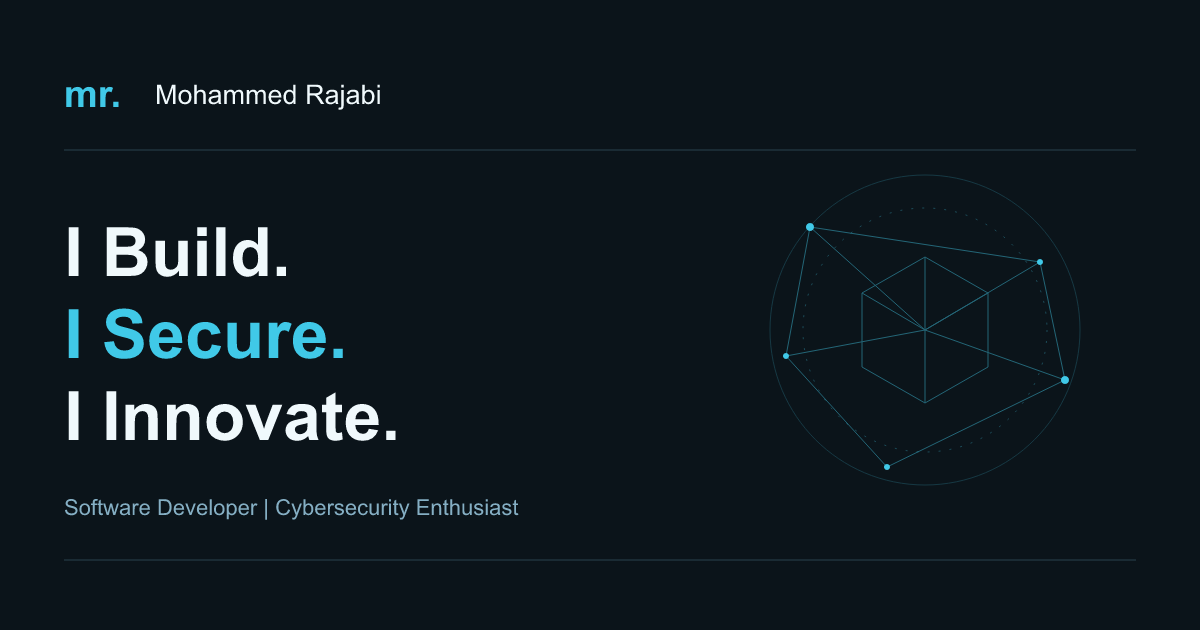
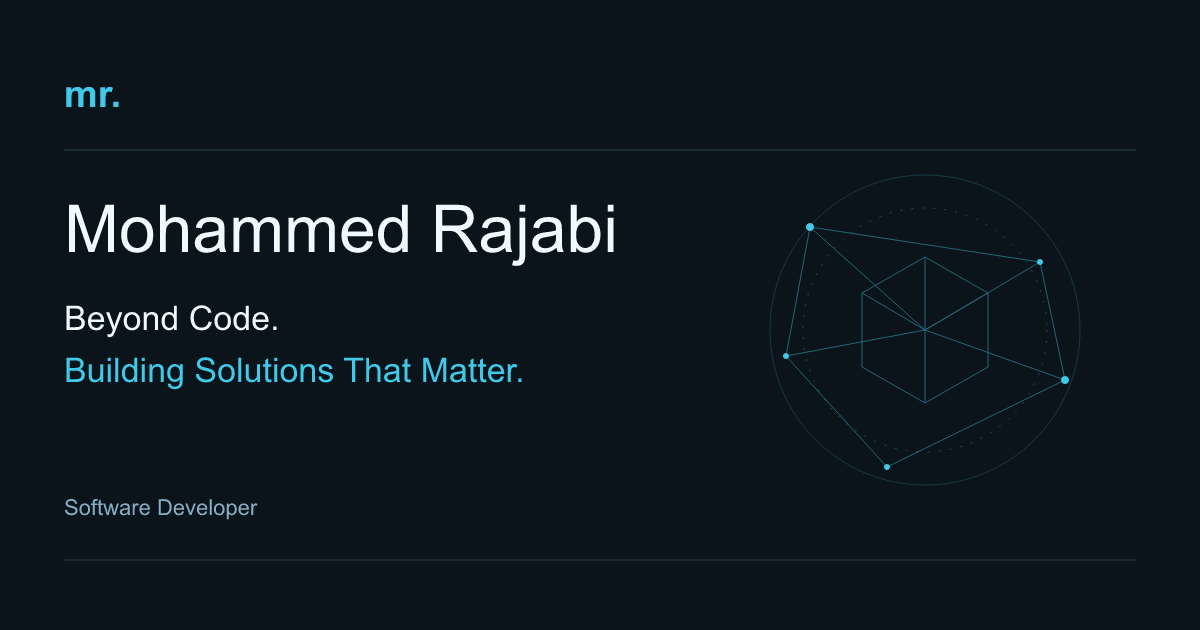
content change

diff --git a/mohammed-rajabi-portfolio/src/content/seo.ts b/mohammed-rajabi-portfolio/src/content/seo.ts
@@ -6,7 +6,7 @@ import { projectPath } from '../utils/projects';
 export const siteUrl = __SITE_URL__;
 export const homepageSeo = {
   title: 'Mohammed Rajabi | Software Developer & Cybersecurity Enthusiast',
-  description: 'Explore the portfolio of Mohammed Rajabi, a software developer and cybersecurity enthusiast building creative, practical, and secure digital experiences.',
+  description: profile.introduction,
 };
 export function getPageMetadata(pathname: string, origin: string | null = siteUrl, items = projects) {
   const project = items.find(item => projectPath(item.slug) === pathname);
@@ -29,7 +29,8 @@ export function getPageMetadata(pathname: string, origin: string | null = siteUr
 // No completed degrees, employment, awards, or fabricated project results.
 export const personSchema = {
   '@context': 'https://schema.org', '@type': 'Person', name: profile.name,
-  description: profile.title,
+  // Preserve the confirmed structured profile independently of the shorter hero title.
+  description: 'Software Developer | Cybersecurity Enthusiast',
   email: contacts.find(contact => contact.kind === 'email')?.value,
   sameAs: contacts.filter(contact => contact.kind !== 'email').map(contact => contact.href),
 };

diff --git a/mohammed-rajabi-portfolio/src/styles/global.css b/mohammed-rajabi-portfolio/src/styles/global.css
@@ -271,17 +271,20 @@
   min-width: 0;
 }
 .hero-name {
-  font-size: clamp(1rem, 2vw, 1.15rem);
+  font-size: clamp(2.75rem, 5.2vw, 4.7rem);
   color: var(--ink);
-  margin-top: 18px;
-  font-weight: 500;
-}
-.hero-copy h1 {
-  font-size: clamp(3rem, 7.2vw, 5.35rem);
-  font-weight: 650;
+  margin: 22px 0 24px;
+  font-weight: 750;
   line-height: 1.08;
-  letter-spacing: -0.065em;
-  margin: 25px 0 26px;
+  letter-spacing: -0.055em;
+}
+.hero-headline {
+  font-size: clamp(1.35rem, 2.5vw, 1.85rem);
+  font-weight: 550;
+  line-height: 1.4;
+  letter-spacing: -0.03em;
+  margin-bottom: 24px;
+  max-width: 560px;
 }
 .headline-line {
   display: block;
@@ -506,9 +509,6 @@
     grid-template-columns: 1.1fr 1fr;
     gap: 18px;
   }
-  .hero-copy h1 {
-    font-size: clamp(3rem, 6.2vw, 5.35rem);
-  }
   .about-section {
     grid-template-columns: 1.25fr 1fr;
     align-items: center;
@@ -544,9 +544,6 @@
   .header-inner {
     gap: 12px;
     min-height: 76px;
-  }
-  .hero-copy h1 {
-    font-size: clamp(2.65rem, 12vw, 3rem);
   }
 }
 @media (hover: hover) and (pointer: fine) {

diff --git a/mohammed-rajabi-portfolio/src/content/profile.ts b/mohammed-rajabi-portfolio/src/content/profile.ts
@@ -2,10 +2,10 @@ import type { Profile } from "../types/content";
 import { resume } from "./resume";
 export const profile: Profile = {
   name: "Mohammed Rajabi",
-  headline: "I Build. I Secure. I Innovate.",
-  title: "Software Developer | Cybersecurity Enthusiast",
+  headline: "Beyond Code. Building Solutions That Matter.",
+  title: "Software Developer",
   introduction:
-    "Driven by curiosity. Inspired by possibility. I explore ideas, solve problems, and build with a security-minded perspective.",
+    "I build modern, production-ready web applications with practical features that solve real business problems and deliver great user experiences.",
   about:
     "I don't just write code. I explore ideas, break down problems, and build solutions. I'm Mohammed Rajabi, a developer driven by curiosity, creativity, and a passion for cybersecurity. Every project is an opportunity to build something better.",
   resume,

diff --git a/mohammed-rajabi-portfolio/src/sections/HeroSection.tsx b/mohammed-rajabi-portfolio/src/sections/HeroSection.tsx
@@ -25,14 +25,14 @@ export function HeroSection() {
           <span />
           {homeContent.greeting}
         </p>
-        <p className="hero-name">{profile.name}</p>
-        <h1 id="hero-heading" aria-label={profile.headline}>
+        <h1 id="hero-heading" className="hero-name">{profile.name}</h1>
+        <p className="hero-headline">
           {profile.headline.match(/[^.]+\./g)?.map((line, index) => (
             <span key={line} className={`headline-line headline-${index}`}>
               {line.trim()}{" "}
             </span>
           ))}
-        </h1>
+        </p>
         <p className="hero-title">{profile.title}</p>
         <p className="hero-introduction">{profile.introduction}</p>
         <div className="hero-actions">

diff --git a/mohammed-rajabi-portfolio/index.html b/mohammed-rajabi-portfolio/index.html
@@ -7,7 +7,7 @@
 <meta name="theme-color" content="#0B141A" />
 <!--seo-->
 <title>Mohammed Rajabi | Software Developer &amp; Cybersecurity Enthusiast</title>
-<meta name="description" content="Explore the portfolio of Mohammed Rajabi, a software developer and cybersecurity enthusiast building creative, practical, and secure digital experiences." />
+<meta name="description" content="I build modern, production-ready web applications with practical features that solve real business problems and deliver great user experiences." />
 <meta name="robots" content="index, follow" />
 <!--/seo-->
 <script src="/theme-init.js"></script>

diff --git a/mohammed-rajabi-portfolio/src/components/hero/TechnologyVisual.tsx b/mohammed-rajabi-portfolio/src/components/hero/TechnologyVisual.tsx
@@ -105,7 +105,7 @@ export function TechnologyVisual() {
         </g>
       </svg>
       <div className="visual-caption">
-        <span /> Software. Systems. Security.
+        <span /> Build. Solve. Deliver.
       </div>
     </div>
   );

diff --git a/mohammed-rajabi-portfolio/docs/SHOWROOM-REDESIGN-PROPOSAL.md b/mohammed-rajabi-portfolio/docs/SHOWROOM-REDESIGN-PROPOSAL.md
@@ -1,0 +1,171 @@
+# Signal & Structure — redesign proposal for approval
+
+Status: research and planning only. No implementation code, dependencies, content collections, or hosting configuration changed for this task. Existing uncommitted hero changes are retained. This proposal follows the brief's instruction to obtain approval before implementation.
+
+## 1. Reference inspection: what was actually observed
+
+Reference: [Reboot01 Showroom](https://showroom.reboot01.com/). Inspected in a real Chromium browser on 2 November 2026, including desktop at 1280px and mobile at 390px. This describes the live version available during inspection, not a reconstruction of an earlier version.
+
+Coverage: the whole public homepage, its process cards, interactive walkthrough, feature collage, people accordion and footer; the Projects page and Grid/Focus/Rows/Explore controls; Spotlight; the Contact page; the submission sign-in gate; theme switching; desktop navigation; mobile menu; keyboard focus and sample interactions. No authentication or real form submission was performed.
+
+| Observation | What gives it coherence | Adaptation for this portfolio |
+| --- | --- | --- |
+| Dark violet canvas, teal accent, dotted texture, white text, recurring code-shaped graphics | The same palette and graphic vocabulary connect otherwise different layouts | Keep Mohammed's graphite/cyan identity; develop an original signal-and-node motif instead of using Reboot's brackets or assets |
+| Large Poppins typography; approximately 72px main heading and 64px secondary heading at the sampled desktop width | Typography establishes the visual scale and supplies much of the artwork | Retain Inter; enlarge the name and section typography while maintaining supporting text and readable line lengths |
+| A sticky opening canvas is progressively covered by the next section | Depth comes from relationships between sections, not a separate effect on every card | One controlled hero-to-biography overlap, with normal document scrolling and a simpler mobile treatment |
+| Individual character elements and visible intermediate reveal states in large headings | Text entrance, graphic entrance and section order feel related | A coordinated name/headline introduction and a few deliberately chosen line reveals, not letter animation on every paragraph |
+| Process cards have contrasting white, violet and teal treatments, corner cutouts and a shared progress rail | Different visual weights still follow one visual grammar | Vary composition and surface emphasis; use a shared margin signal rather than copy the three-card layout or cutouts |
+| The walkthrough follows a winding illuminated connector and alternates text with media | The line becomes a narrative device and directs attention between steps | A quieter signal that aligns with section markers, skills selection and the education timeline; no reproduction of the exact winding path |
+| Walkthrough buttons jump to their sections; the local rating example updates visibly when selected | Visitors can participate in the explanation instead of watching a passive animation | Keep real skills selection and contact feedback as the interactive story; do not add ratings or simulated project results |
+| A collage mixes unequal feature panels, outlined background type, a counter, code imagery and a graph | Changing scale breaks the repetition of an ordinary card grid | Use asymmetry in biography, skills and education; use only real portfolio facts and no achievement counters |
+| People panels expand when selected; moving keyboard focus also expanded a panel | Visual response has an accessible input alternative | Focus and touch selection receive the same preview treatment as pointer interaction |
+| The project-page opening uses layered screenshot artwork; its public gallery currently reports zero projects | An expressive introduction remains possible even without a populated gallery | Make the honest empty state designed and intentional without fake thumbnails or inactive project links |
+| Gallery modes open focused/dialog-style views; Track currently offers only the all-tracks empty state | Presentation can change while content and controls remain recognizable | Do not add gallery modes or filters to an empty personal portfolio; prioritize one excellent showcase when real entries exist |
+| Navigation uses a translucent pill, an active code-shaped treatment and a floating logo; several CSS transitions report 300ms and an ease-out curve | Small state changes repeat the main visual vocabulary | Retain a personal full-width navigation bar, add a quiet moving indicator and section numerals; do not copy the pill or logo |
+| Mobile puts the hero graphic above centered text, stacks process cards and turns the walkthrough into a numbered vertical story | Mobile changes the composition, not just the font size | A name-first mobile introduction, smaller secondary graphic, single-column narrative and no long pinned scenes |
+| Mobile menu is a bottom sheet over a dimmed/blurred page; Escape returned focus to the opener | Responsive navigation has its own intentional interaction design | A compact accessible sheet for existing anchors, retaining the current theme choices and keyboard behavior |
+| Light mode uses white with dark violet text while retaining teal and selected contrasting panels | Theme switching preserves the art direction | Keep the existing light/dark/system model and test contrast for both themes |
+
+### Inspection limits
+
+- The reference gallery and Spotlight archive were empty. Actual populated-card hover effects, live project-detail routes, filtering with results and shared project transitions could not be verified. The homepage's walkthrough recordings are recordings, not evidence of live detail-route behavior.
+- Submission content requires Gitea sign-in. Authenticated upload/dashboard behavior was not inspected. External institutional sites were outside the visual-reference scope.
+- CSS navigation timing was inspected, but exact JavaScript timeline durations, easing curves, animation library, pointer-following behavior, magnetic effects and every hover state are unverified. Small decorative glyphs were visible; that alone does not establish how they track input.
+- Reduced-motion preference emulation was not available in the connected browser. Reference reduced-motion behavior and real touch-device performance are unverified.
+- Some screenshots caught intermediate, temporarily sparse reveal states. The proposal deliberately avoids long blank gaps or delaying access to text while an animation finishes.
+
+## 2. Existing portfolio audit
+
+The existing application is a sound foundation. React 19, TypeScript 6, Vite 8, Tailwind 4, React Router 8, Motion 14, Lucide and locally served Inter are already configured. Shared routes are used for client rendering and build-time prerendering. The current presentation is consistent and readable, but sections mostly share the same container/card rhythm and their motion is largely independent.
+
+Current structure:
+
+- `src/content/`: typed profile, skills, education, contact, project and section data. Keep these as the source of truth.
+- `src/routes.tsx`, `src/App.tsx`, `src/entry-server.tsx`: homepage, `/projects/:slug`, not-found handling, lazy routes and server rendering.
+- `src/layouts/RootLayout.tsx`: skip link, navigation, main landmark, footer and Back to Top.
+- `src/components/navigation/`: active-section detection, hash navigation, focus/offset handling, responsive menu and scroll control.
+- `src/components/theme/`: persisted light/dark/system preferences, live system subscriptions and deterministic server snapshots. `public/theme-init.js` applies the initial theme early.
+- `src/components/skills/SkillsTabs.tsx`: functioning keyboard tabs, five categories, all 21 skills; this behavior should survive a visual replacement.
+- `src/components/projects/`: real-content templates, safe optional links, image failure states, detail pages and technology tags.
+- `src/components/contact/`: correct contact destinations and pending/success/error/manual-copy feedback.
+- `src/styles/`: semantic theme tokens, layout layers, micro-interactions, simple scroll-driven CSS reveals and reduced-motion fallbacks.
+- `scripts/prerender.mjs`, `src/content/seo.ts`, `usePageMetadata.ts`, `vercel.json`: crawlable static output, page metadata, confirmed Person schema, origin-gated sitemap/canonical output, CSP and static 404 configuration.
+
+A local production preview was visually inspected on desktop and mobile. No new code validation or Lighthouse benchmark is claimed in this planning task. Existing reports are historical; a fresh baseline is part of implementation.
+
+### Non-negotiable content constraints
+
+The latest hero stays: the greeting, **Mohammed Rajabi** as the dominant name, **Beyond Code. Building Solutions That Matter.**, **Software Developer**, and the current supplied description. Do not restore the old hero wording.
+
+Keep the exact biography, all 21 skills and their five categories, both expected education records, GPA 3.7 only for Bahrain Polytechnic, and all confirmed contact destinations. Developer/cybersecurity positioning continues through the biography, capabilities and education; it does not require inventing a cybersecurity job title or credential.
+
+Projects, experience and certifications currently have empty collections. Projects remain an honest visible empty state; experience and certifications remain hidden. The genuine resume is absent, so its download stays hidden. Do not add fake work, client logos, testimonials, employment, credentials, completion claims or performance statistics.
+
+## 3. Recommended creative direction: Signal & Structure
+
+The portfolio should feel like a personal interactive editorial: Mohammed introduces himself, reveals how he thinks, shows his capabilities, presents real work when available, and invites a conversation.
+
+A thin cyan signal moves through an original geometric field, becomes a margin marker, connects the skills index, aligns with the education timeline, and resolves into the contact underline. It is one visual thread with several purposeful states, not a full-page animated background.
+
+Keep the exact existing dark palette: background `#0B141A`, surfaces `#152630`, accent `#40C9E8`, secondary `#85AFC4`, text `#F0F9FC`. Retain the existing accessible light palette. Add sparse static dot/line texture and a few large outline words only where they help composition. Do not introduce Reboot's purple brand, brackets, portraits, screenshots or logos.
+
+Use Inter throughout. Proposed desktop scale: name roughly 96–128px on wide screens, section display headings 64–88px, secondary hero line 32–48px, body 16–18px. These are responsive ranges, not fixed sizes. Mobile name roughly 48–64px with natural wrapping, section headings 36–44px and body at least 16px for primary prose. Supporting content remains around a 1200px maximum width; decorative framing can extend beyond it without horizontal overflow.
+
+## 4. Section-by-section experience
+
+| Section | Proposed composition and behavior | Mobile / reduced-motion treatment |
+| --- | --- | --- |
+| Header and navigation | Personal name/monogram left, numbered section links right, a slim active marker. The header becomes visually quieter while scrolling. Keep all current anchors and theme choices. Mobile menu uses a bottom sheet with correct dialog semantics, focus containment, Escape/outside close and focus restoration. | Large touch targets, a scrollable sheet if text is enlarged, no hover dependency. Reduced motion uses immediate state changes. |
+| Hero | Name-led editorial opening spanning the composition, with the existing headline and introduction below. Replace the continuously orbiting cube with an original geometric field related to the initials MR. A coordinated short entrance settles type, then lines and nodes, then CTA accents. On desktop, the graphic shifts slightly as the next section approaches. | Content comes first, graphic follows at a smaller scale. No pinned mobile hero, cursor requirement, endless spinning or blocking loader. All text remains visible without JavaScript. |
+| About | Preserve the complete biography as readable prose. Replace three equal quick-fact cards with an asymmetric composition: a large heading, biography and three existing interest labels aligned to the shared signal. A short desktop sticky graphic changes emphasis as development, cybersecurity and learning enter view. | Normal stacked reading order. All biography sentences remain readable; emphasis changes must not dim body text below contrast requirements. Sticky behavior is removed for narrow or short viewports. |
+| Skills | A capability index rather than a card grid: five substantial category selectors on one side and a shared skills stage on the other. Selection reveals the real badges and adjusts the signal geometry. Honest skill counts may be derived from existing data; no ratings or proficiency levels. Retain tab roles, keyboard wrapping, Home/End, focus and panel relationships. | Controls wrap or stack and remain labelled. No drag gesture is required. Panel changes become immediate with reduced motion. |
+| Featured projects | A large editorial section title and spacious preview-led entries, one strong project composition at a time rather than repeated small tiles. Each genuine entry supports a real screenshot, summary, tags and existing links. Preview crop changes, a restrained image scale and an animated details underline respond equally to hover/focus. | Screenshot and all actions remain visible without hover. Items become normal single-column entries; no forced horizontal scroll or gallery mode switcher. |
+| Current project empty state | An intentional open frame and oversized section number, with the existing truthful empty-state wording. The frame joins the shared signal as it enters. No fake thumbnails, loading skeletons, disabled sample links or fabricated project statistics. | Compact static frame with readable copy. The design is considered complete even while the collection is empty. |
+| Project details | Keep `/projects/:slug`, direct refresh behavior and all conditional fields. Use an oversized title, generous overview, large real media and a clear return link. Preserve context through color, project numbering and a brief header entrance. Do not make navigation wait for a cinematic exit. | Predictable document flow, useful image dimensions/alt text, safe optional links and the existing failed-image fallback. |
+| Education | Turn the existing timeline into a quieter editorial chapter: large dates in one column and institution/qualification/status in another. The shared signal draws along the timeline as each record reaches view. Both programs remain explicitly expected/in progress. | One-column timeline, no pinning or draggable interaction. Static line for reduced motion. |
+| Contact and footer | A full-width closing composition with the existing contact heading and a large personal email action. The signal ends as an underline/endpoint beside the email. Keep Copy email, success/failure/manual selection, GitHub, LinkedIn and Back to Top. Footer uses the name/monogram, not a fictional agency sign-off. | Stable targets, readable email wrapping and no new form/backend. Focus stays where it belongs during clipboard feedback. |
+
+The headline and semantic order remain personal and recruiter-friendly. The visual story supports the content; it does not present an invented agency process or imply completed client work.
+
+## 5. Motion priorities and proposed timing
+
+These are proposed specifications, not claimed measurements of the reference.
+
+| Priority | Interaction | Proposed limits |
+| --- | --- | --- |
+| 1 | Coordinated hero entrance | Approximately 600–900ms total; name first, headline/graphic following; 35–55ms text-group staggering where useful. Never block CTA access. |
+| 1 | Hero-to-About continuity | A short desktop overlap and graphic transform linked to natural scrolling. Decorative translation capped around 24–40px. Avoid a long artificial scroll runway. |
+| 1 | Skills-stage selection | Approximately 220–320ms; deliberate geometry and badge transition. No automatic category cycling. |
+| 1 | Project preview response | Approximately 250–400ms, image scale no more than about 1.03, small framing/underline changes. Equivalent keyboard feedback and full touch access. |
+| 2 | About chapter emphasis / education line | A bounded scroll-linked scene with normal reading order. At most one short desktop storytelling scene; disable pinning on mobile, short screens and reduced motion. |
+| 2 | Menu and theme feedback | Approximately 180–300ms. Animate local surfaces/indicators without a whole-screen flashing theme wipe. |
+| 2 | Contact action | Icon/underline movement of approximately 4–6px; keep the clickable target and focus ring stationary. This supplies magnetic-like feedback without a moving target. |
+
+Favor smooth ease-out transitions, not strong elastic/bounce effects. Avoid simultaneous competing entrance, hover and scroll animations on the same property. No custom cursor, looping marquee, autoplay background video or decorative number counters are required.
+
+## 6. Recommended technology and lifecycle strategy
+
+Retain React, TypeScript, Vite, Tailwind, React Router, Lucide, Inter and the existing static rendering pipeline.
+
+Recommend **GSAP + ScrollTrigger as the single JavaScript choreography engine**, with CSS for ordinary hover/focus/theme states. The coordinated timelines and bounded scroll scenes justify it. ScrollTrigger supports scroll-linked animation and pinning; [official documentation](https://gsap.com/docs/v3/Plugins/ScrollTrigger/) covers these mechanisms.
+
+Do not add Lenis or ScrollSmoother: native scrolling already works with section anchors, keyboard input, focus and Back to Top. Do not add Three.js, a second smooth-scroll engine or a new UI framework.
+
+As the new scenes replace existing Motion wrappers, move small UI transitions to CSS and remove Motion only once its remaining imports are gone and behavior is verified. The finished design should not ship GSAP and Motion merely to animate the same UI. This is a targeted animation migration, not a routing or application-framework rewrite.
+
+Use a small scoped scene hook, not a large animation framework. [GSAP context](https://gsap.com/docs/v3/GSAP/gsap.context()/) provides scoped animation collection/reversion, and [matchMedia](https://gsap.com/docs/v3/GSAP/gsap.matchMedia()/) supports responsive conditions and cleanup. Scene initialization must be client-only and safe under React StrictMode, SSR, route changes and resize.
+
+Specific safeguards:
+
+- Render real text and content first. Dynamic animation loading or failure must never leave a blank hero or hidden biography.
+- Keep decorative graphics hidden from assistive technology. Split visual text must retain one coherent accessible name and sensible heading structure.
+- Use scoped cleanup; do not globally kill unrelated scroll triggers. Disconnect observers/listeners and cancel pointer frames on unmount.
+- Use DOM transforms directly for frame-by-frame motion, not React state updates on every scroll tick.
+- Refresh measured scenes when fonts/media dimensions actually settle. Reserve media space and avoid repeated layout measurements in scroll callbacks.
+- Build separate desktop/mobile conditions and respond to reduced-motion changes. Disable parallax, pinning, tilt and text choreography when reduced motion is requested; every section stays present and usable.
+- Animate only an original small SVG field and bounded paths. Use static texture; avoid a full-window canvas particle system unless a later measured need justifies it.
+- Keep the early theme script and CSP intact. No third-party scripts, asset origins or header relaxation are needed for this design.
+
+## 7. What is preserved, replaced or restructured
+
+| Preserve | Replace / restructure |
+| --- | --- |
+| Latest name-first hero wording and exact biography | Hero composition and decorative SVG geometry |
+| All original typed collections and content contracts | Repetitive section/card rhythm and generic wrappers where no longer useful |
+| Existing routes, native links, project URLs and static 404s | Homepage project grid presentation, without changing the project model |
+| Skill category data and keyboard/ARIA behavior | Skills visual arrangement and transitions |
+| Theme preference/system subscriptions and early initialization | Theme-control styling and local state feedback |
+| Clipboard utility, feedback semantics, selection fallback and contact destinations | Contact layout and visual action treatment |
+| Resume gate and hidden empty sections | No new experience/certification/achievement sections |
+| Prerendering, metadata/schema, robots/sitemap gating and security headers | Social artwork may be refreshed to the approved identity; no unrelated metadata/content rewrite |
+| Existing tests and meaningful behavioral coverage | Tests tied to obsolete layout class names can be updated while keeping their original behavioral assertions |
+
+## 8. Implementation phases after approval
+
+| Phase | Specific files / proposed additions | Verification gate |
+| --- | --- | --- |
+| A. Baseline and boundaries | Audit the existing diff without resetting it; `docs/`, `tests/`, package scripts; capture current routes/content/theme states and baseline measurements | Existing typecheck/lint/content/interaction/build/production checks pass or pre-existing failures are recorded; genuine content and hidden gates are locked down |
+| B. Visual and motion foundation | `styles/tokens.css`, `global.css`; evolve `components/AnimationProvider.tsx` and add a scoped `hooks/useSceneTimeline.ts` / reduced-motion helper as needed; package manifests for GSAP | No SSR/window errors, no empty no-JS content, cleanup passes repeated mounting/navigation, reduced-motion conditions work |
+| C. Hero and navigation | `HeroSection.tsx`, `TechnologyVisual.tsx`, `SiteHeader.tsx`, theme-control styling; a small mobile sheet component only if it simplifies ownership | Name remains dominant; latest exact copy, CTA destinations and CV gate unchanged; desktop/mobile menu, Escape, Tab and focus restoration work |
+| D. Biography and capabilities | `AboutSection.tsx`, `QuickFacts.tsx`, `SkillsSection.tsx`, `SkillsTabs.tsx`, relevant shared styles | Exact biography and all 21 skills preserved; every category keyboard-accessible; sticky scene has a short-screen fallback; no opacity/contrast regression |
+| E. Work and detail pages | `ProjectsSection.tsx`, `ProjectShowcase.tsx`, `ProjectMedia.tsx`, `ProjectDetails.tsx`, `ProjectPage.tsx` | Honest empty production state; isolated real-shaped fixtures exercise one/multiple entries, optional URLs, missing/failed images and navigation; fixtures never ship |
+| F. Education and closing | `EducationSection.tsx`, `EducationCard.tsx`, `ContactSection.tsx`, `ContactCard.tsx`, `BackToTop.tsx`, `RootLayout.tsx` | Expected education/GPA unchanged; clipboard pending/success/error/manual focus preserved; external links safe; Back to Top works; new visuals complete the same signal motif |
+| G. Consolidation and visual QA | Remove obsolete animation imports/styles and Motion dependency only when unused; `tests/`, `scripts/`, README and QA documentation | Full checks, browser matrix, performance comparison and honest report of remaining limits; no push/deployment |
+
+No genuine-project data is required to implement and verify the template safely. A populated public project showcase remains gated on real supplied content. Approval of this plan authorizes these local implementation phases, not publication or invented content.
+
+## 9. Acceptance criteria and review matrix
+
+Run `npm run typecheck`, `npm run lint`, `npm run test:content`, `npm run test:interactions`, `npm run build`, and `npm run test:production`. Retain the existing social-generation/security-sync procedures when their inputs change. Record `npm audit` findings without forcing unrelated breaking updates.
+
+Browser review at 360, 390, 768, 1024, 1440 and 1920px, plus short laptop heights. Inspect both themes, System behavior, 200% text sizing, keyboard-only navigation, anchor/focus offsets, route refresh and unknown routes. Test mouse, focus and touch equivalents; do not infer screen-reader or real-device success from a screenshot.
+
+Motion review includes quick scrolling, reversing direction, resizing, opening a menu during a scene, jumping past a sticky section using a nav anchor, Back/Forward navigation and repeated route mounts. No trapped scrolling, pinned overlap, detached focus or lingering observers may remain.
+
+Measure Lighthouse mobile and desktop after a fresh build on a quiet machine. Aim for performance 90+, accessibility/best-practices/SEO 95+, CLS at most 0.1 and lab LCP around 2.5s or better; treat these as targets, not guarantees or field INP measurements. Compare route transfer and scripting with a fresh baseline, not an old report from before the hero update. If an effect causes a meaningful regression, simplify that effect before adding optimization machinery.
+
+Implementation is complete only when the actual site has been inspected and discrepancies fixed. The planning task itself adds this document only; it does not claim those future checks have run.
+
+## Approval requested
+
+Approve **Signal & Structure**, its name-first identity and cyan continuity motif, the section plan, the GSAP/ScrollTrigger migration with native scrolling, and the phased local implementation. Application code will remain unchanged until that approval. Deployment and pushes require separate explicit approval.
